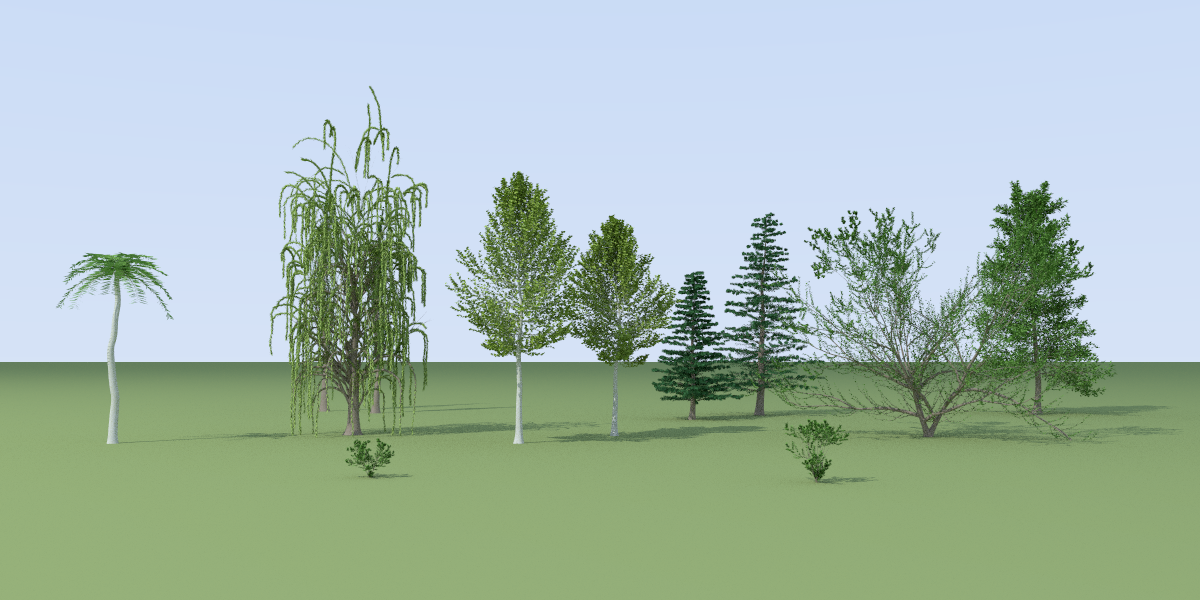
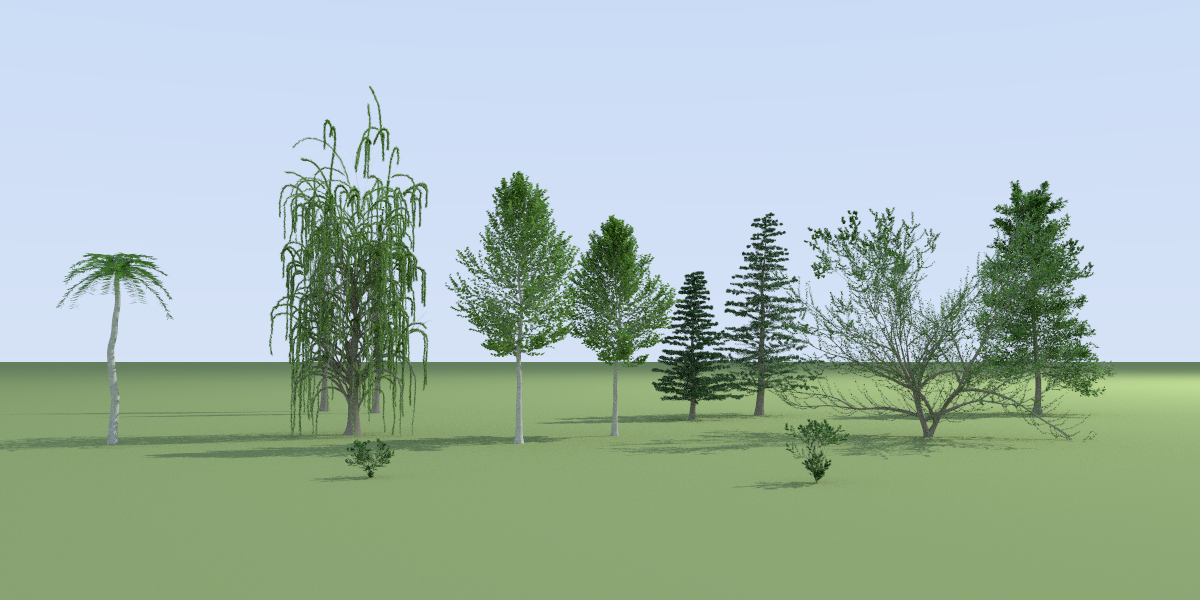
Use translucent leaves and textured bark in the tree scenes
Leaves use the leaf material, several variants per species, and bark a
noise texture; the sun moves behind and to the side, so leaves show
light shining through them. Document the leaf material.

Claude-Session: https://claude.ai/code/session_01U8ZZike4qkA5Hjtan8wVMh

diff --git a/demo/scenes.md b/demo/scenes.md
@@ -21,6 +21,9 @@ Procedural trees (Weber and Penn's parametric model). From left to right: palm, 
 black oak and black tupelo, with shrubs in front. Each is
 `{"type": "tree", "species": "...", "seed": 0, "location": [x, y, z], "bark": material, "leaves": material}`,
 with optional `"params"` overriding the species' parameters (see `src/procedural/tree.rs`).
+`"leaves"` may list several materials, each leaf taking one at random. The leaves here use the
+translucent `leaf` material, so they glow where the sun, behind and to the right, shines
+through them, and the bark is textured with noise.
 ![trees](./scenes/trees.png)
 
 Evergreens, from left to right: Italian cypresses, a forked stone (umbrella) pine, Scots pines,

diff --git a/CLAUDE.md b/CLAUDE.md
@@ -3,7 +3,7 @@
 ## Project Overview
 Rays.rust is a raytracer written in Rust with the following features:
 - Whitted tracing and path tracing with Monte-Carlo global illumination
-- Material models: Lambertian, Specular, Dielectric
+- Material models: Lambertian, Specular, Dielectric, Plastic, Leaf (translucent, `src/material/leaf.rs`)
 - Objects: Sphere, Plane, Mesh, OBJ file import
 - Skysphere with Rayleigh and Mie Scattering
 - Procedural objects including Ocean (Tessendorf's algorithm with Phillips spectrum) and trees

diff --git a/README.md b/README.md
@@ -17,6 +17,7 @@ Supports:
       - Lambertian 
       - Specular
       - Dielelectric
+      - Leaf (translucent: diffuse reflection and transmission under a glossy coat)
 
   - Objects
     - Sphere
